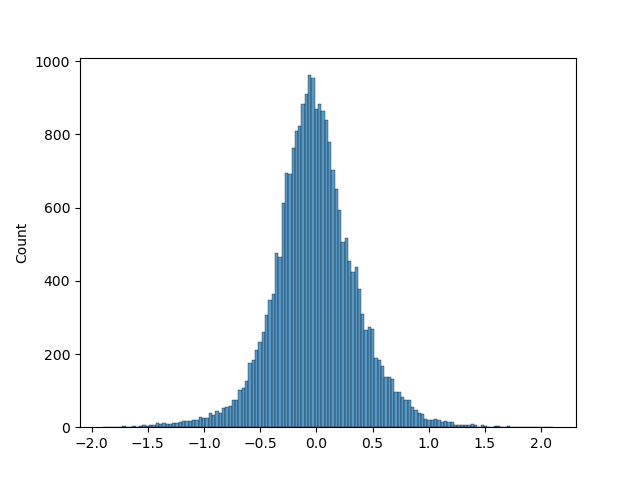
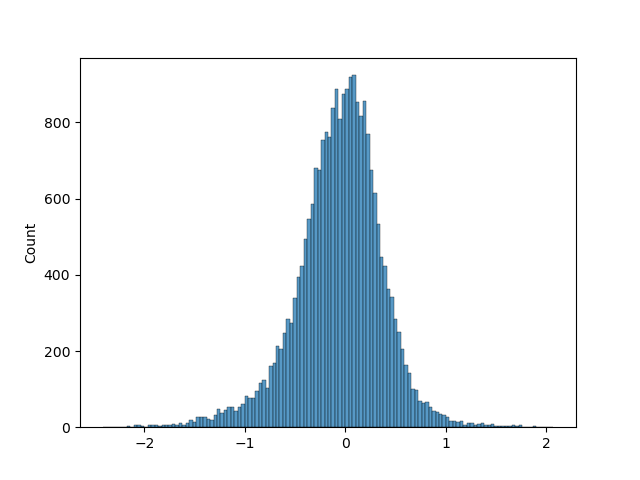
binary without activation

diff --git a/experiments/525/wgan.py b/experiments/525/wgan.py
@@ -13,30 +13,30 @@ from random import shuffle
 os.environ['KMP_DUPLICATE_LIB_OK'] = 'True'
 
 # random_input = np.random.randint(low=0, high=2, size=(100000, 15, 1))
-a = np.linspace(-1, 1, 10000)
-b = np.sin(np.pi * 2 * a) ** 2
-interval = (1 + 1) / 10000
-area = interval * b
-numbers = np.round((area / np.sum(area)) * 1500000)
-filled = []
-c = 0
-for i in numbers:
-    for j in range(int(i)):
-        filled.append(a[c])
-    c += 1
-filled.remove(filled[0])
-filled.remove(filled[100])
-# sns.histplot(filled)
-shuffle(filled)
-input_array = np.array(filled)
-input_array = input_array.reshape([100000, 15, 1])
+# a = np.linspace(-1, 1, 10000)
+# b = np.sin(np.pi * 2 * a) ** 2
+# interval = (1 + 1) / 10000
+# area = interval * b
+# numbers = np.round((area / np.sum(area)) * 1500000)
+# filled = []
+# c = 0
+# for i in numbers:
+#     for j in range(int(i)):
+#         filled.append(a[c])
+#     c += 1
+# filled.remove(filled[0])
+# filled.remove(filled[100])
+# # sns.histplot(filled)
+# shuffle(filled)
+# input_array = np.array(filled)
+# input_array = input_array.reshape([50000, 15, 2])
 
 # plot real but random data
 real = []
-for i in range(100000):
+for i in range(50000):
     for j in range(15):
-        # for k in range(4):
-        real.append(input_array[i][j][0])
+        for k in range(2):
+            real.append(input_array[i][j][0])
 # that's the real input, we assume there are 4 peaks
 sns.histplot(real)
 plt.title('real data, total 100,000')
@@ -44,8 +44,8 @@ plt.savefig('real_random.png')
 plt.clf()
 
 z_dim = 2
-im_dim = 15
-hidden_dim = 16
+im_dim = 30
+hidden_dim = 32
 display_step = 782
 lr = 0.0003
 beta_1 = 0.5
@@ -59,7 +59,7 @@ shuffle = True
 num_worker = 0
 pin_memory = True
 input_tensor = torch.Tensor(input_array)
-dataset = tensor_dataset(input_tensor, 15, 1)
+dataset = tensor_dataset(input_tensor, 15, 2)
 dataloader = DataLoader(dataset=dataset,
                         shuffle=shuffle,
                         batch_size=batch_size,
@@ -70,10 +70,10 @@ dataloader = DataLoader(dataset=dataset,
 def check_output(epochs):
     output = []
     for i in range(100):
-        noise = func.get_noise(16, 2)
+        noise = func.get_noise(16, 4)
         a = gen(noise).data.numpy()
         for j in range(16):
-            for k in range(15):
+            for k in range(30):
                 output.append(a[j][k])
     sns.histplot(output)
     plt.savefig(f'{epochs}_epoch.png')

diff --git a/res/fnn/discriminator.py b/res/fnn/discriminator.py
@@ -6,9 +6,12 @@ class Discriminator(nn.Module):
     def __init__(self, im_dim=15, hidden_dim=4):
         super(Discriminator, self).__init__()
         self.disc = nn.Sequential(
+            # input layer
             self.get_discriminator_block(im_dim, hidden_dim * 4),
+            # hidden layers
             self.get_discriminator_block(hidden_dim * 4, hidden_dim * 2),
             self.get_discriminator_block(hidden_dim * 2, hidden_dim),
+            # output layer
             nn.Linear(hidden_dim, 1),
         )
 

diff --git a/experiments/5.15/test_random_one_hot.py b/experiments/5.15/test_random_one_hot.py
@@ -66,7 +66,7 @@ gen, disc, gen_opt, disc_opt = training.initialize_model(z_dim, im_dim, hidden_d
 # before training, check the distribution of output
 check_output(epochs=0)
 
-for i in range(10):
+for i in range(100):
     n_epochs = 10
     training.training_bce(gen, disc, z_dim, n_epochs, dataloader, device, disc_opt, gen_opt, display_step)
     check_output(n_epochs * (i + 1))

diff --git a/res/fnn/generator.py b/res/fnn/generator.py
@@ -22,7 +22,7 @@ class Generator(nn.Module):
             # output layer
             nn.Linear(hidden_dim * 8, im_dim),
             # nn.Sigmoid()
-            nn.Tanh()
+            # nn.Tanh()
             # nn.Softmax()
         )
 
